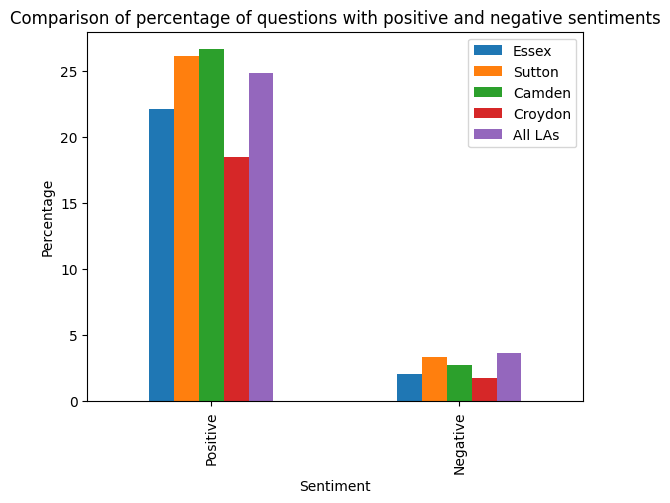
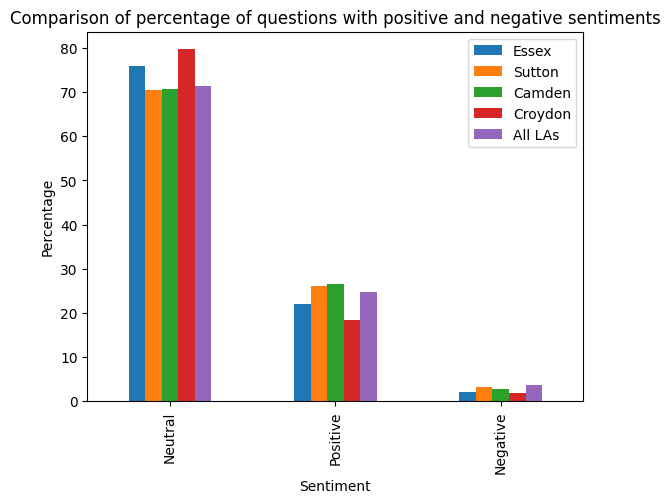
added neutral percent comparison

diff --git a/p2a_analysis/text_analysis refactor.py b/p2a_analysis/text_analysis refactor.py
@@ -149,14 +149,15 @@ def make_wordcloud(df, la):
     return top_10, df
 
 fdists = {}
-sent_df = pd.DataFrame({'Sentiment':['Positive', 'Negative']})
+sent_df = pd.DataFrame({'Sentiment':['Neutral', 'Positive', 'Negative']})
 for key, value in df_dict.items():
     plt.clf()
     fdist, sentiment_df = make_wordcloud(value, key)
+    neutral_percent = (len(sentiment_df[sentiment_df['sentiment'] == 'neutral'])/len(sentiment_df))*100
     positive_percent = (len(sentiment_df[sentiment_df['sentiment'] == 'positive'])/len(sentiment_df))*100
     negative_percent = (len(sentiment_df[sentiment_df['sentiment'] == 'negative'])/len(sentiment_df))*100
     fdists[key] = fdist
-    sent_df[key] = [positive_percent, negative_percent]
+    sent_df[key] = [neutral_percent, positive_percent, negative_percent]
 
 # positive/negative sentiment comparisons
 plt.clf()
